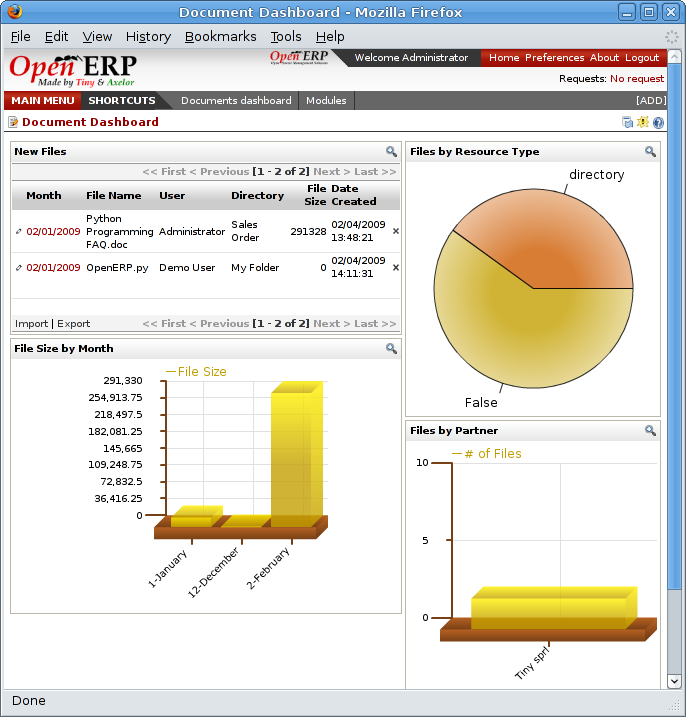
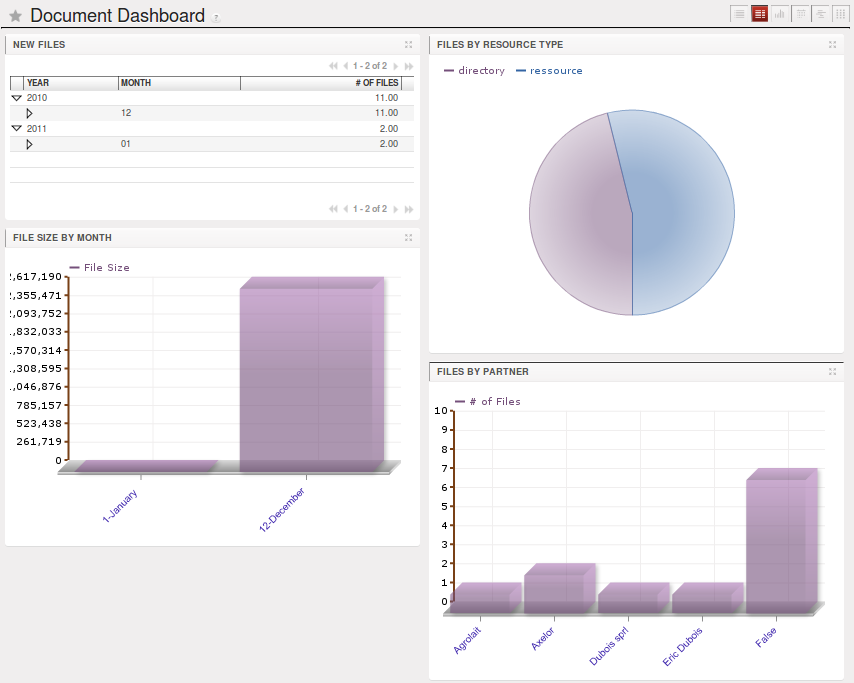
[IMP]: Process and Document Management > Integrated Document Management > Standardizing Structures AND Searching for documents

diff --git a/7/7_19_Documents/7_19_Documents_searching.rst b/7/7_19_Documents/7_19_Documents_searching.rst
@@ -5,7 +5,7 @@
 Searching for documents
 =======================
 
-You've seen several methods of accessing documents quickly:
+You have seen several methods of accessing documents quickly:
 
 * From attachments to an Open ERP resource,
 
@@ -13,31 +13,31 @@ You've seen several methods of accessing documents quickly:
 
 * Using the menu :menuselection:`Document Management --> Structure of Directories`.
 
-But if you don't know where a specific document can be found, Open ERP also has a search tool
-integrated into its document management. To search for a file use the menu :menuselection:`Document
-Management --> Search for a file`. You get to a document search screen that lets you search amongst
+But if you do not know where a specific document can be found, Open ERP also has a search tool
+integrated into its document management. To search for a file use the menu :menuselection:`Knowledge
+--> Documents --> Documents`. You get to a document search view that lets you search amongst
 all the attachments and all the documents in the FTP server.
 
 You can search for a file using various different criteria:
+
+* The attachment name,
+
+* The attachment type,
 
 * The filename,
 
 * The owner of a file,
 
-* The title of the resource that the file is attached to,
+* The directory that it is found in,
 
-* The partner that the document is about,
-
-* The directory that it's found in,
-
-* Its creation and modification dates.
+* The indexed content
 
 Notice here an important advantage for an integrated document management system. Information such as
 which partner is associated with a document is automatically detected by Open ERP when the document
-has been stored in a directory. This information is never input by the user – it's detected
-automatically using the information about the resource when it's being saved as a file.
+has been stored in a directory. This information is never input by the user – it is detected
+automatically using the information about the resource when it is being saved as a file.
 
-But your search isn't limited to these few fields. You can also search on the content in the files.
+But your search is not limited to these few fields. You can also search on the content in the files.
 Each file is automatically indexed by the system to give you a search engine rather like Google's on
 the whole set of company documents.
 
@@ -72,7 +72,7 @@ Using Outlook and Thunderbird
    :scale: 50
    :align: center
 
-   *Sending an attachment that's in the document management system from Outlook*
+   *Sending an attachment that is in the document management system from Outlook*
 
 Working with users' changes
 ===========================
@@ -82,12 +82,12 @@ easily be able to store all the documents that they produce or receive from thei
 suppliers. So Open ERP supplies dashboards to help system users approve their acceptance of such
 documents.
 
-So you'll find two dashboards in the menu :menuselection:`Dashboards --> Document Management`. One
+So you will find two dashboards in the menu :menuselection:`Knowledge --> Reporting --> Dashboard`. One
 dashboard is for the document management system manager and one dashboard is for tracking use by different
 users.
 
 The first lets you track the change of documents by month, by customer and by type of resource. You
-could also quickly assess the use that's made of the system by the various users.
+could also quickly assess the use that is made of the system by the various users.
 
 .. figure::  images/document_board1.png
    :scale: 50
@@ -109,19 +109,20 @@ and whether you need to do something about changing work methods.
 Version Management
 ==================
 
-There's usually a need to keep track of all the important documents that you have printed. For
-example, when you send an invoice to a customer it's a good idea to store a copy of that invoice
+There is usually a need to keep track of all the important documents that you have printed. For
+example, when you send an invoice to a customer it is a good idea to store a copy of that invoice
 internally in paper or electronic form. Then you can reprint it exactly in the same format as when
 you sent it, even if the company's details have changed in the meantime.
 
 To do this, Open ERP can automatically store as attachments the different reports printed by users.
-By default, only invoices are saved as attachments, and they're saved when they are printed.
-That's because they are commonly legally required.
+By default, only invoices are saved as attachments, and they are saved when they are printed.
+That is because they are commonly legally required.
 
-But you can configure the system so that it doesn't matter which type of report is printed - 
+But you can configure the system so that it does not matter which type of report is printed - 
 they can all be stored automatically. To
 activate that functionality on another type of report, modify this in the menu
-:menuselection:`Administration --> Configuration --> Low Level --> Actions --> XML Reports`.
+:menuselection:`Administration --> Low Level Objects --> Actions --> Reports`.
+To be able to access this menu, the user should be added to the group :guilabel:`Useability / No One`.
 
 .. figure::  images/document_report_modif.png
    :scale: 50
@@ -129,25 +130,9 @@ activate that functionality on another type of report, modify this in the menu
 
    *Modifying the definition of a report*
 
-Select the report that you want to change and complete the field :guilabel:`Prefix for saving as an
-attachment`. Once you've done that each document print action will automatically be saved as an
+Select the report that you want to change and complete the field :guilabel:`Save As Attachment Prefix`.
+Once you have done that, each document print action will automatically be saved as an
 attachment to the document.
-
-Documents used for company processes
-====================================
-
-Finally, the document management system is also completely linked to the main system that manages
-company processes. Then on each node of your management process you could store a procedure. Once
-the user sees a process view of the relevant document he would be able to click on the directory to
-get all the documents that might be useful for this phase of the process.
-
-So you could also efficiently store the documents required for each phase of a process.
-
-.. figure::  images/document_process.png
-   :scale: 50
-   :align: center
-
-   *Example of a document linked to process management*
 
 .. Copyright © Open Object Press. All rights reserved.
 

diff --git a/7/7_19_Documents/7_19_Documents_structures.rst b/7/7_19_Documents/7_19_Documents_structures.rst
@@ -2,7 +2,7 @@
 Standardizing Structures
 ========================
 
-You now have a configuration that enables you to automatically get a directory structure linke to
+You now have a configuration that enables you to automatically get a directory structure linked to
 Open ERP for each resource, such as for projects and orders. The ideal situation would now be to
 automatically structure the documents about projects, say. For example, you could classify them
 depending on their type:
@@ -24,10 +24,10 @@ directories above and give them the following data:
 
 * **Type** : Static Directory,
 
-* **Linked Model** : Analytic Account.
+* **Parent Model** : Analytic Account.
 
-Then in each project (represented by analytic accounts) you'll get this substructure for
-organizating your documents efficiently.
+Then in each project (represented by analytic accounts) you will get this substructure for
+organizing your documents efficiently.
 
 .. figure::  images/document_shared_structure.png
    :scale: 50
@@ -37,10 +37,10 @@ organizating your documents efficiently.
 
 .. tip:: Mapping
 
-    In practice, Open ERP doesn't create directories or files for every resource.
+    In practice, Open ERP does not create directories or files for every resource.
     It actually manages this by mapping between Open ERP resources and the FTP interface
 
-    This approach gives a lot of flexibility because there's no synchronizing to do, nor any redundancy.
+    This approach gives a lot of flexibility because there is no synchronizing to do, nor any redundancy.
     Changes in either the document management system or in Open ERP will automatically be reflected
     over in the other side.
 
